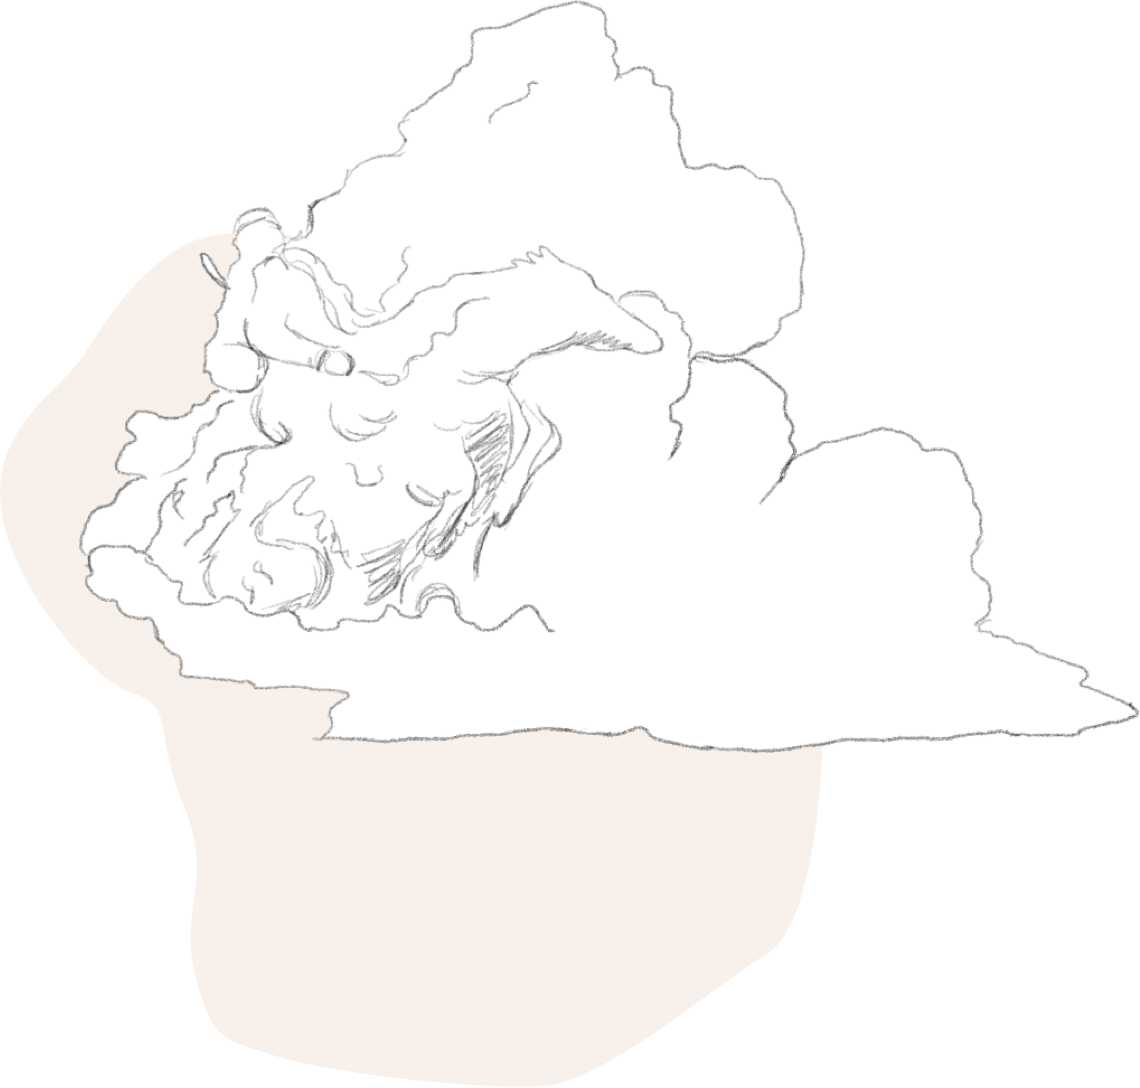
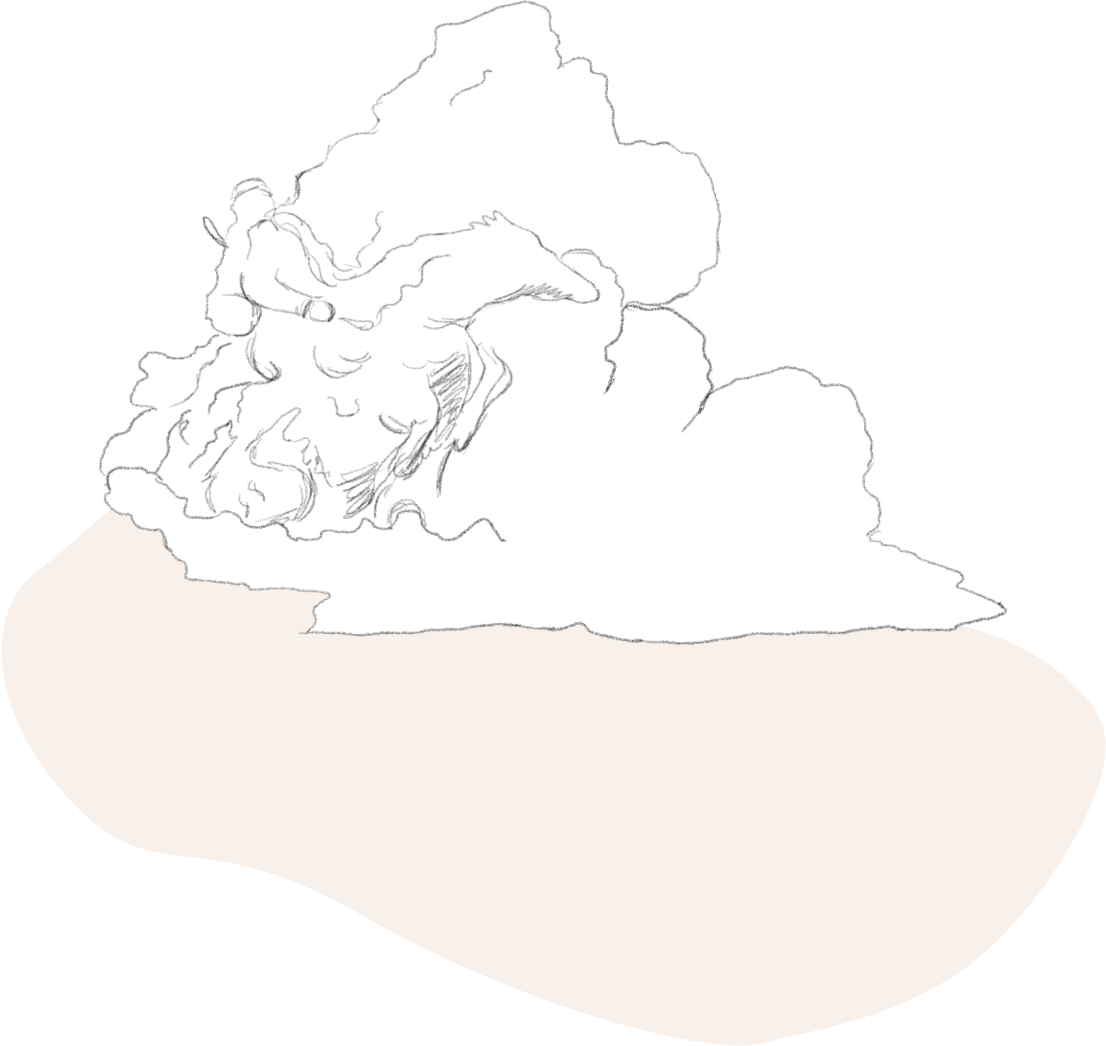
u

diff --git a/src/components/Home.vue b/src/components/Home.vue
@@ -73,7 +73,6 @@
       <img src="@/assets/img/ui/clips.png" alt="Clips" class="cb ci" id="c-clips">
     </div>
 
-
     <div class="space"></div>
 
     <div class="cloud left">
@@ -179,7 +178,8 @@
     <!-- collections -->
     <div class="cloud interstitial">
       <div class="content center-text">
-        <a href="smarturl.it/outsiderdarger" target="blank" class="bt-primary">Collections around the globe</a>
+        <a target="blank" class="bt-primary disabled">Collections around the globe</a>
+        <div class="alert">Coming soon !</div>
       </div>
       <img src="@/assets/img/ui/globe.png" alt="Collections around the globe" class="cb ci" id="c-collections">
     </div>
@@ -244,6 +244,18 @@
       <img src="@/assets/img/ui/clouds/c12.svg" class="cb" id="c12">
     </div>
 
+    <div class="space"></div>
+
+    <!-- makingoff -->
+    <div class="cloud interstitial">
+      <div class="content center-text">
+        <a target="blank" class="bt-primary disabled">Making-off</a>
+        <div class="alert">Coming soon !</div>
+      </div>
+      <img src="@/assets/img/ui/makingoff.png" alt="Making Off" class="cb ci" id="c-makingoff">
+    </div>
+    
+    <div class="space"></div>
     <div class="space"></div>
 
 </div>

diff --git a/src/assets/styles/main.scss b/src/assets/styles/main.scss
@@ -90,6 +90,15 @@ ul{
         background-color: $dark;
         color: $cream;
     }
+
+    &.disabled{
+        opacity: .5;
+
+        &:hover{
+            background: none;
+            color: $dark;
+        }
+    }
 }
 
 @mixin mask {
@@ -356,27 +365,29 @@ $menu-h: 120px;
         top: -150px;
     }   
     #c-clips{
-        top: -280px;
+        top: -270px;
     }
     #c-tour{
-        top: -220px;
+        top: -240px;
     }
     #c-press{
-        top: -265px;
+        top: -260px;
     }
     #c-collections{
-        top: -420px;
+        top: -370px;
+        opacity: .5;
     }
     #c-makingoff{
-        top: -300px;
+        top: -310px;
+        opacity: .5;
     }
 }
 
 #c-album{
-    width: 700px;
+    width: 650px;
     margin: 0 auto;
     .cb{
-        top: -550px;
+        top: -500px;
     }       
 }
 
@@ -384,6 +395,12 @@ $menu-h: 120px;
     font-family: 'DargerScript';
     font-size: 72px;
     text-align: center;
+}
+
+.alert{
+    font-size: 16px;
+    color: red;
+    margin: 10px 0;
 }
 
 .avatar{
